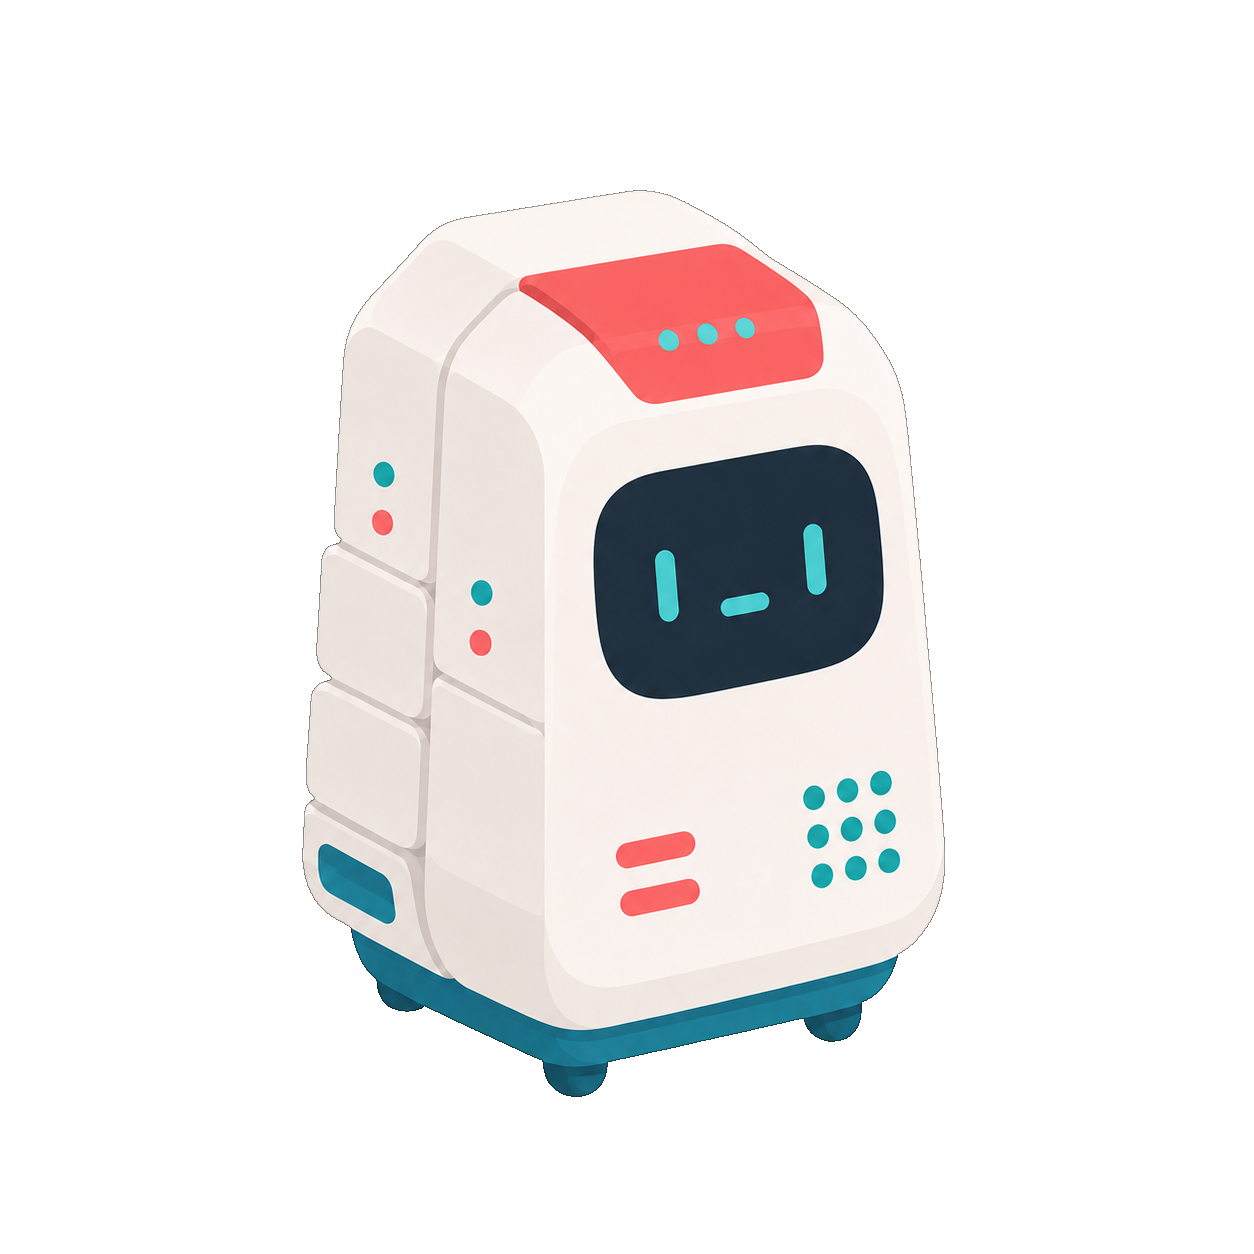
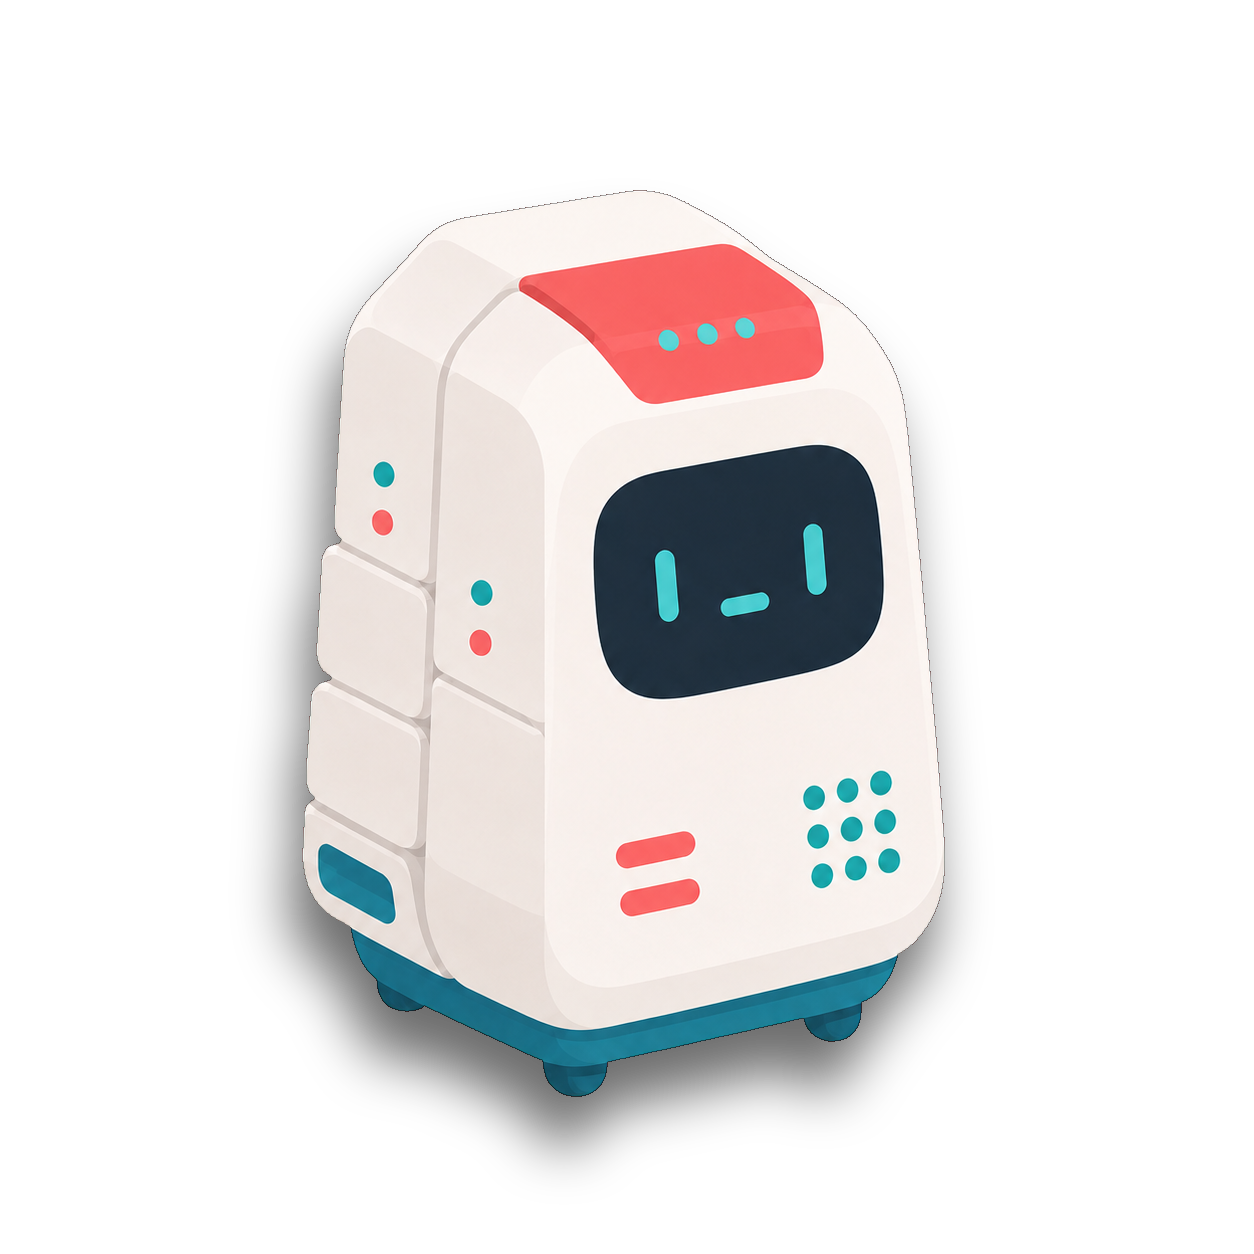
Move chat controls into side panel

Changed region(s): [[0.1866, 0.2488, 0.7775, 0.933]]

diff --git a/frontend/src/App.tsx b/frontend/src/App.tsx
@@ -17,7 +17,7 @@ import {
 } from "./realtime";
 
 const leftPanels = [
-  { density: "tall", kind: "brief", label: "Left panel one" },
+  { density: "tall", kind: "controls", label: "Runtime controls" },
   { density: "compact", kind: "code", label: "Left panel two" },
   { density: "compact", kind: "reference", label: "Left panel three" },
   { density: "compact", kind: "checks", label: "Left panel four" },
@@ -240,7 +240,7 @@ async function apiFetch<T>(url: string, options: RequestInit = {}) {
 function App() {
   const pathname = window.location.pathname;
 
-  if (pathname === "/surfaces/tutoring/panels") {
+  if (pathname === "/" || pathname === "/surfaces/tutoring/panels") {
     return <PanelStudy />;
   }
 
@@ -260,7 +260,7 @@ function PanelStudy() {
     initialPanelLayout.current.workspaceWidth ?? standardWorkspaceWidth,
   );
   const realtimeConnectionRef = useRef<DluRealtimeConnection | null>(null);
-  const [isLeftOpen, setIsLeftOpen] = useState(false);
+  const [isLeftOpen, setIsLeftOpen] = useState(true);
   const [workspaceWidth, setWorkspaceWidth] = useState(
     initialPanelLayout.current.workspaceWidth ?? standardWorkspaceWidth,
   );
@@ -765,60 +765,6 @@ function PanelStudy() {
     >
       <header className="study-header">
         <p className="study-kicker">Tutoring workspace</p>
-        <div className="study-actions">
-          {user ? <span className="study-user">{user.displayName}</span> : null}
-          <label className="header-select">
-            <span>Model</span>
-            <select
-              disabled={chatStatus === "loading" || isSendingMessage}
-              onChange={(event) =>
-                setSelectedModel(event.target.value as RealtimeModelId)
-              }
-              value={selectedModel}
-            >
-              {realtimeModelOptions.map((option) => (
-                <option key={option.id} value={option.id}>
-                  {option.label}
-                </option>
-              ))}
-            </select>
-          </label>
-          <label className="header-select">
-            <span>Voice</span>
-            <select
-              disabled={chatStatus === "loading" || isSendingMessage}
-              onChange={(event) =>
-                setSelectedVoice(event.target.value as RealtimeVoiceId)
-              }
-              value={selectedVoice}
-            >
-              {realtimeVoiceOptions.map((option) => (
-                <option key={option.id} value={option.id}>
-                  {option.label}
-                </option>
-              ))}
-            </select>
-          </label>
-          <span className={`voice-status voice-status-${realtimeStatus}`}>
-            {realtimeStatusLabels[realtimeStatus]}
-          </span>
-          <button
-            className="header-action"
-            disabled={chatStatus === "loading" || isCreatingSession || isSendingMessage}
-            onClick={createNewSession}
-            type="button"
-          >
-            {isCreatingSession ? "Creating..." : "New session"}
-          </button>
-          <button
-            className="header-action secondary"
-            disabled={isSigningOut}
-            onClick={signOut}
-            type="button"
-          >
-            Sign out
-          </button>
-        </div>
       </header>
 
       <section
@@ -851,7 +797,23 @@ function PanelStudy() {
                 density={panel.density}
                 key={panel.label}
               >
-                <LeftPanelContent kind={panel.kind} />
+                <LeftPanelContent
+                  controls={{
+                    chatStatus,
+                    isCreatingSession,
+                    isSendingMessage,
+                    isSigningOut,
+                    onCreateNewSession: createNewSession,
+                    onModelChange: setSelectedModel,
+                    onSignOut: signOut,
+                    onVoiceChange: setSelectedVoice,
+                    realtimeStatus,
+                    selectedModel,
+                    selectedVoice,
+                    user,
+                  }}
+                  kind={panel.kind}
+                />
               </PanelWindow>
             ))}
           </div>
@@ -923,7 +885,32 @@ function PanelWindow({ ariaLabel, children, density, style }: PanelWindowProps) 
 
 type LeftPanelKind = (typeof leftPanels)[number]["kind"];
 
-function LeftPanelContent({ kind }: { kind: LeftPanelKind }) {
+type RuntimeControlsProps = {
+  chatStatus: "loading" | "ready" | "error";
+  isCreatingSession: boolean;
+  isSendingMessage: boolean;
+  isSigningOut: boolean;
+  onCreateNewSession: () => Promise<void>;
+  onModelChange: (model: RealtimeModelId) => void;
+  onSignOut: () => Promise<void>;
+  onVoiceChange: (voice: RealtimeVoiceId) => void;
+  realtimeStatus: RealtimeStatus;
+  selectedModel: RealtimeModelId;
+  selectedVoice: RealtimeVoiceId;
+  user: ApiUser | null;
+};
+
+function LeftPanelContent({
+  controls,
+  kind,
+}: {
+  controls: RuntimeControlsProps;
+  kind: LeftPanelKind;
+}) {
+  if (kind === "controls") {
+    return <RuntimeControls {...controls} />;
+  }
+
   if (kind === "code") {
     return (
       <CodeBlock
@@ -982,6 +969,89 @@ function LeftPanelContent({ kind }: { kind: LeftPanelKind }) {
       <p className="muted-copy">
         Preferred response shape: short question, one target, no full solution yet.
       </p>
+    </div>
+  );
+}
+
+function RuntimeControls({
+  chatStatus,
+  isCreatingSession,
+  isSendingMessage,
+  isSigningOut,
+  onCreateNewSession,
+  onModelChange,
+  onSignOut,
+  onVoiceChange,
+  realtimeStatus,
+  selectedModel,
+  selectedVoice,
+  user,
+}: RuntimeControlsProps) {
+  const isControlDisabled = chatStatus === "loading" || isSendingMessage;
+
+  return (
+    <div className="runtime-controls">
+      <div className="runtime-control-header">
+        <span>Controls</span>
+        <strong className={`voice-status voice-status-${realtimeStatus}`}>
+          {realtimeStatusLabels[realtimeStatus]}
+        </strong>
+      </div>
+
+      <label className="control-field">
+        <span>Model</span>
+        <select
+          disabled={isControlDisabled}
+          onChange={(event) =>
+            onModelChange(event.target.value as RealtimeModelId)
+          }
+          value={selectedModel}
+        >
+          {realtimeModelOptions.map((option) => (
+            <option key={option.id} value={option.id}>
+              {option.label}
+            </option>
+          ))}
+        </select>
+      </label>
+
+      <label className="control-field">
+        <span>Voice</span>
+        <select
+          disabled={isControlDisabled}
+          onChange={(event) =>
+            onVoiceChange(event.target.value as RealtimeVoiceId)
+          }
+          value={selectedVoice}
+        >
+          {realtimeVoiceOptions.map((option) => (
+            <option key={option.id} value={option.id}>
+              {option.label}
+            </option>
+          ))}
+        </select>
+      </label>
+
+      <div className="control-actions">
+        <button
+          className="header-action"
+          disabled={chatStatus === "loading" || isCreatingSession || isSendingMessage}
+          onClick={onCreateNewSession}
+          type="button"
+        >
+          {isCreatingSession ? "Creating..." : "New session"}
+        </button>
+        <button
+          className="header-action secondary"
+          disabled={isSigningOut}
+          onClick={onSignOut}
+          type="button"
+        >
+          Sign out
+        </button>
+      </div>
+
+      {user ? <p className="control-user">{user.displayName}</p> : null}
     </div>
   );
 }

diff --git a/frontend/src/styles.css b/frontend/src/styles.css
@@ -515,6 +515,87 @@ button {
   opacity: 0.55;
 }
 
+.runtime-controls {
+  display: grid;
+  gap: 8px;
+  min-width: 0;
+}
+
+.runtime-control-header {
+  display: flex;
+  align-items: center;
+  justify-content: space-between;
+  gap: 8px;
+  min-width: 0;
+}
+
+.runtime-control-header > span {
+  overflow: hidden;
+  color: var(--page-ink);
+  font-size: 0.78rem;
+  font-weight: 780;
+  text-overflow: ellipsis;
+  white-space: nowrap;
+}
+
+.runtime-control-header .voice-status {
+  min-height: 24px;
+  padding: 3px 7px;
+  font-size: 0.67rem;
+}
+
+.control-field {
+  display: grid;
+  gap: 4px;
+  min-width: 0;
+  color: var(--muted-ink);
+  font-size: 0.7rem;
+  font-weight: 760;
+}
+
+.control-field select {
+  width: 100%;
+  min-height: 30px;
+  padding: 4px 26px 4px 8px;
+  border: 1px solid color-mix(in srgb, var(--accent-2) 20%, var(--panel-soft-border));
+  border-radius: 8px;
+  color: color-mix(in srgb, var(--page-ink) 88%, var(--accent-2));
+  background: color-mix(in srgb, var(--panel-bg-strong) 88%, transparent);
+  font-size: 0.74rem;
+  font-weight: 720;
+}
+
+.control-field select:disabled {
+  cursor: default;
+  opacity: 0.58;
+}
+
+.control-actions {
+  display: grid;
+  grid-template-columns: minmax(0, 1fr) minmax(0, 0.82fr);
+  gap: 7px;
+  min-width: 0;
+}
+
+.runtime-controls .header-action {
+  width: 100%;
+  min-width: 0;
+  overflow: hidden;
+  padding: 5px 8px;
+  text-overflow: ellipsis;
+  white-space: nowrap;
+}
+
+.control-user {
+  margin: 0;
+  overflow: hidden;
+  color: var(--muted-ink);
+  font-size: 0.7rem;
+  font-weight: 720;
+  text-overflow: ellipsis;
+  white-space: nowrap;
+}
+
 .left-panel-toggle {
   position: absolute;
   top: 8px;
@@ -947,7 +1028,7 @@ button {
 
 .chat-dlu-figure {
   position: absolute;
-  left: calc(var(--chat-side-space) - 18px);
+  left: calc(var(--chat-side-space) - 32px);
   bottom: 46px;
   display: block;
   width: var(--dlu-width);